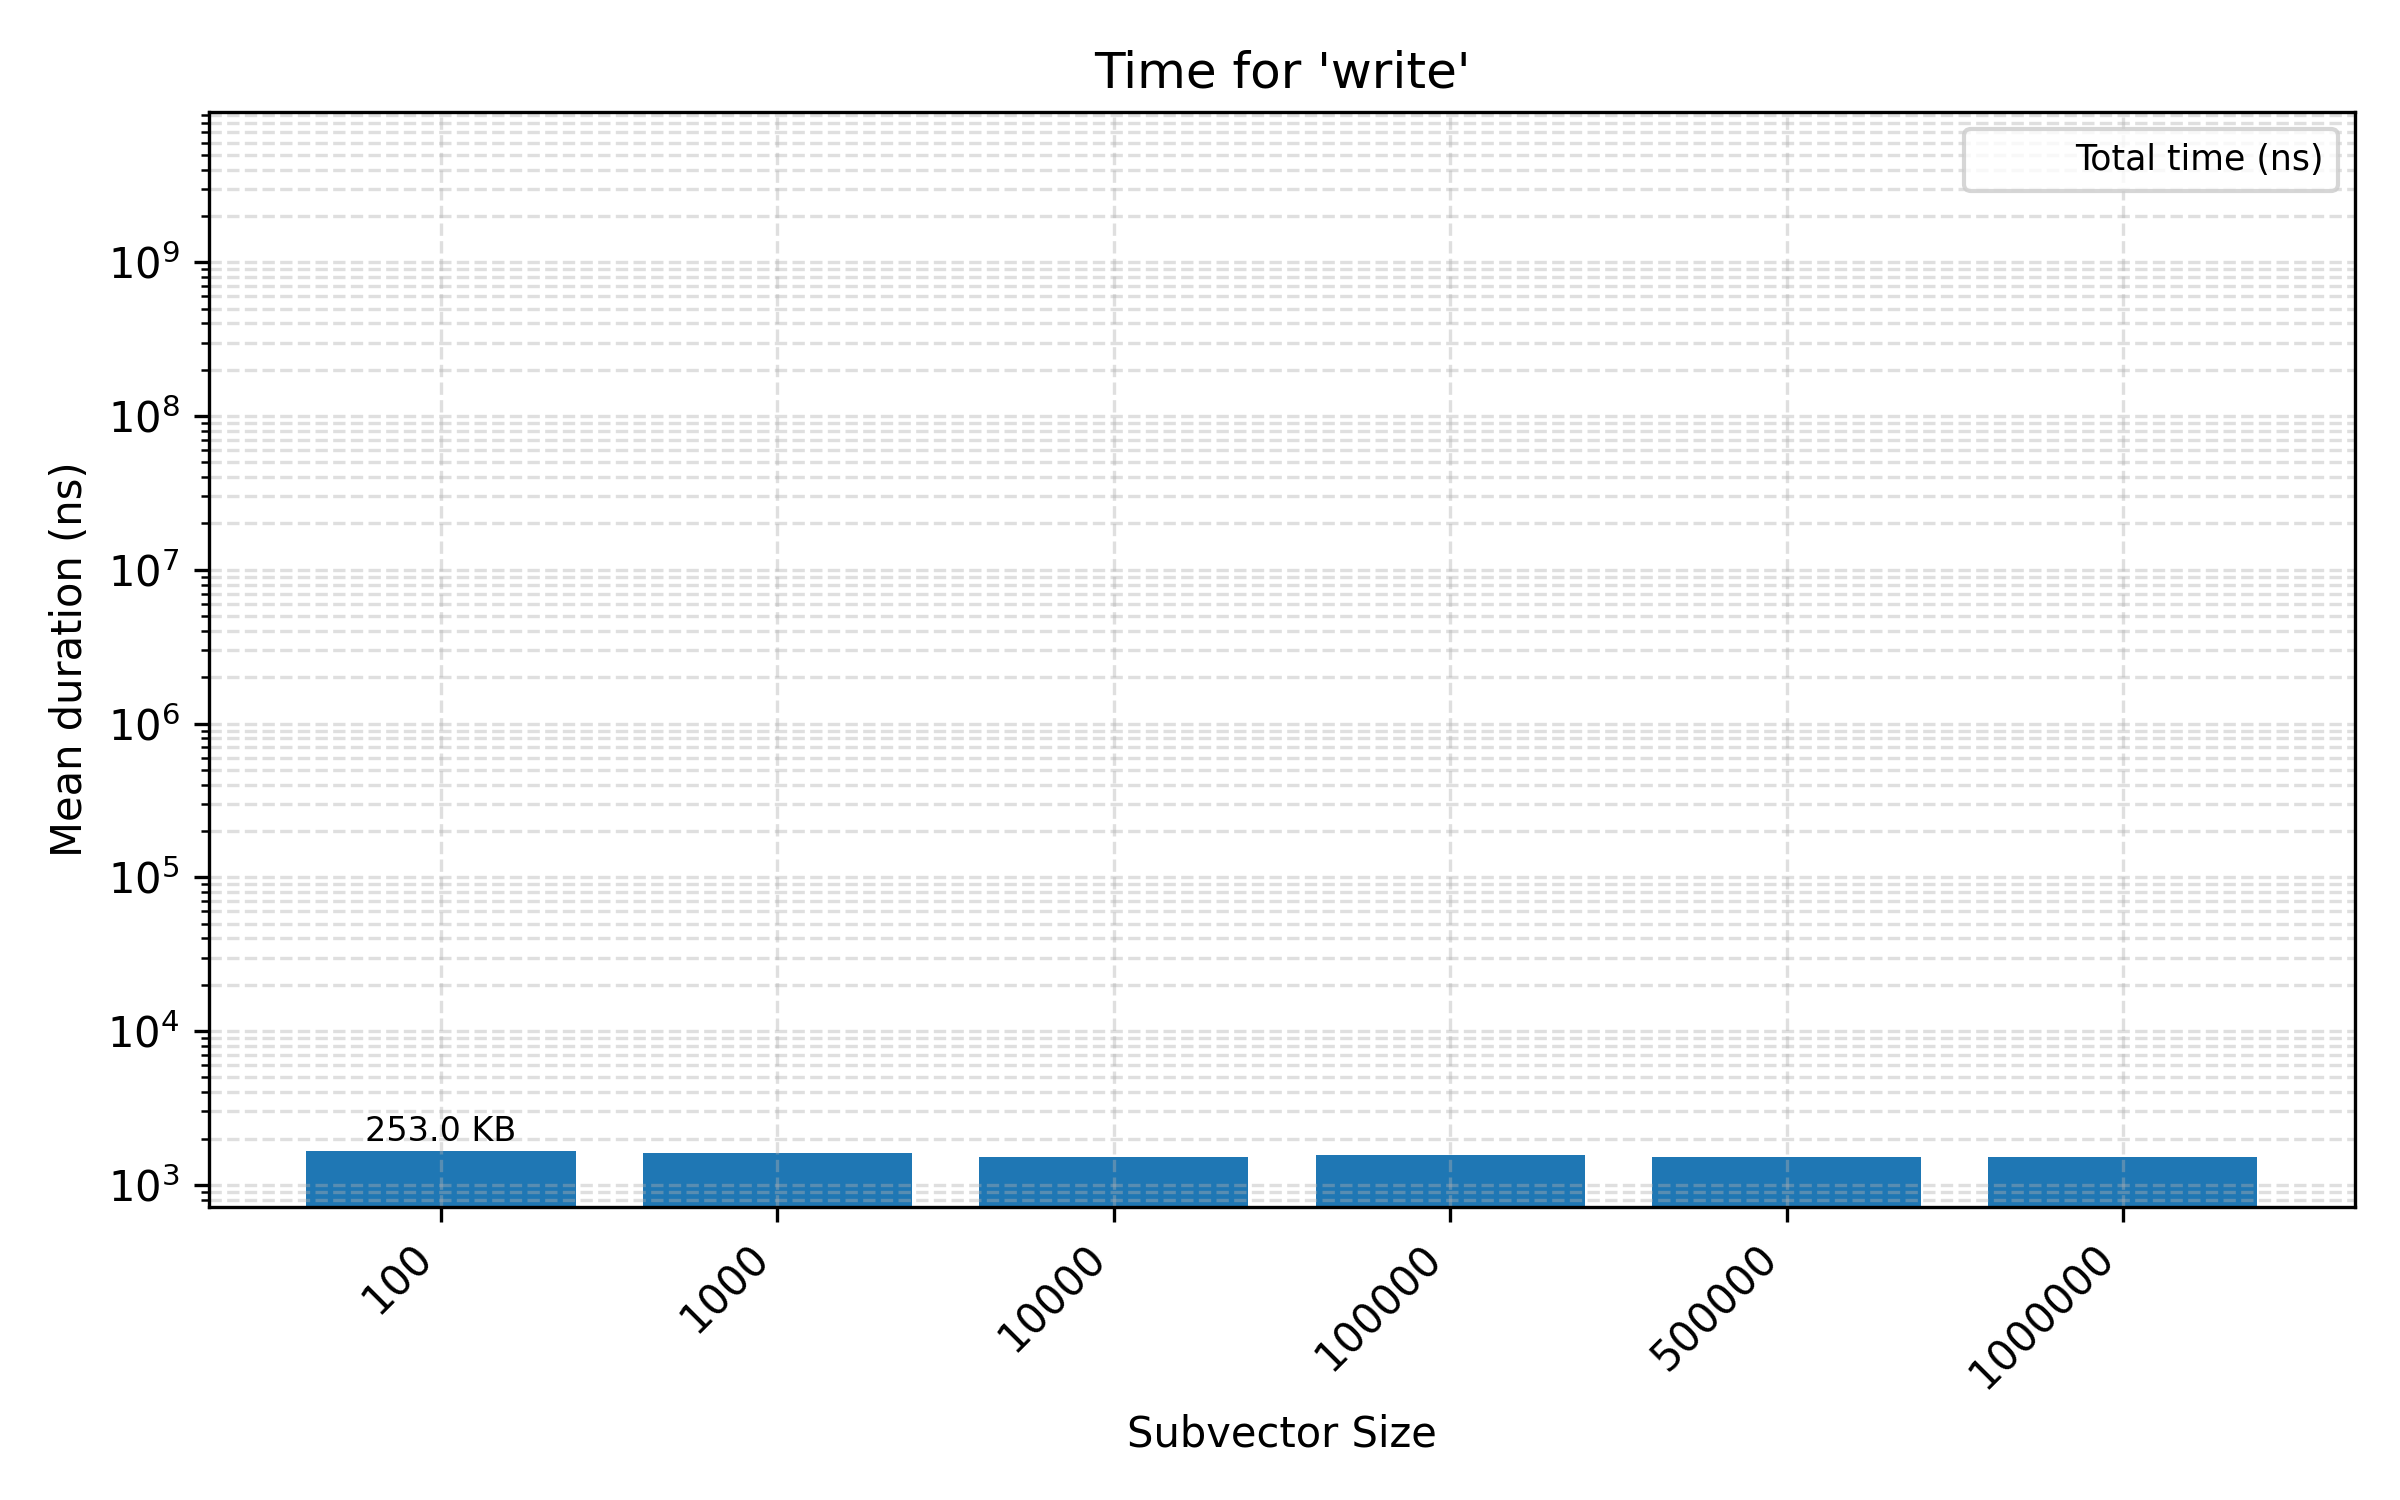
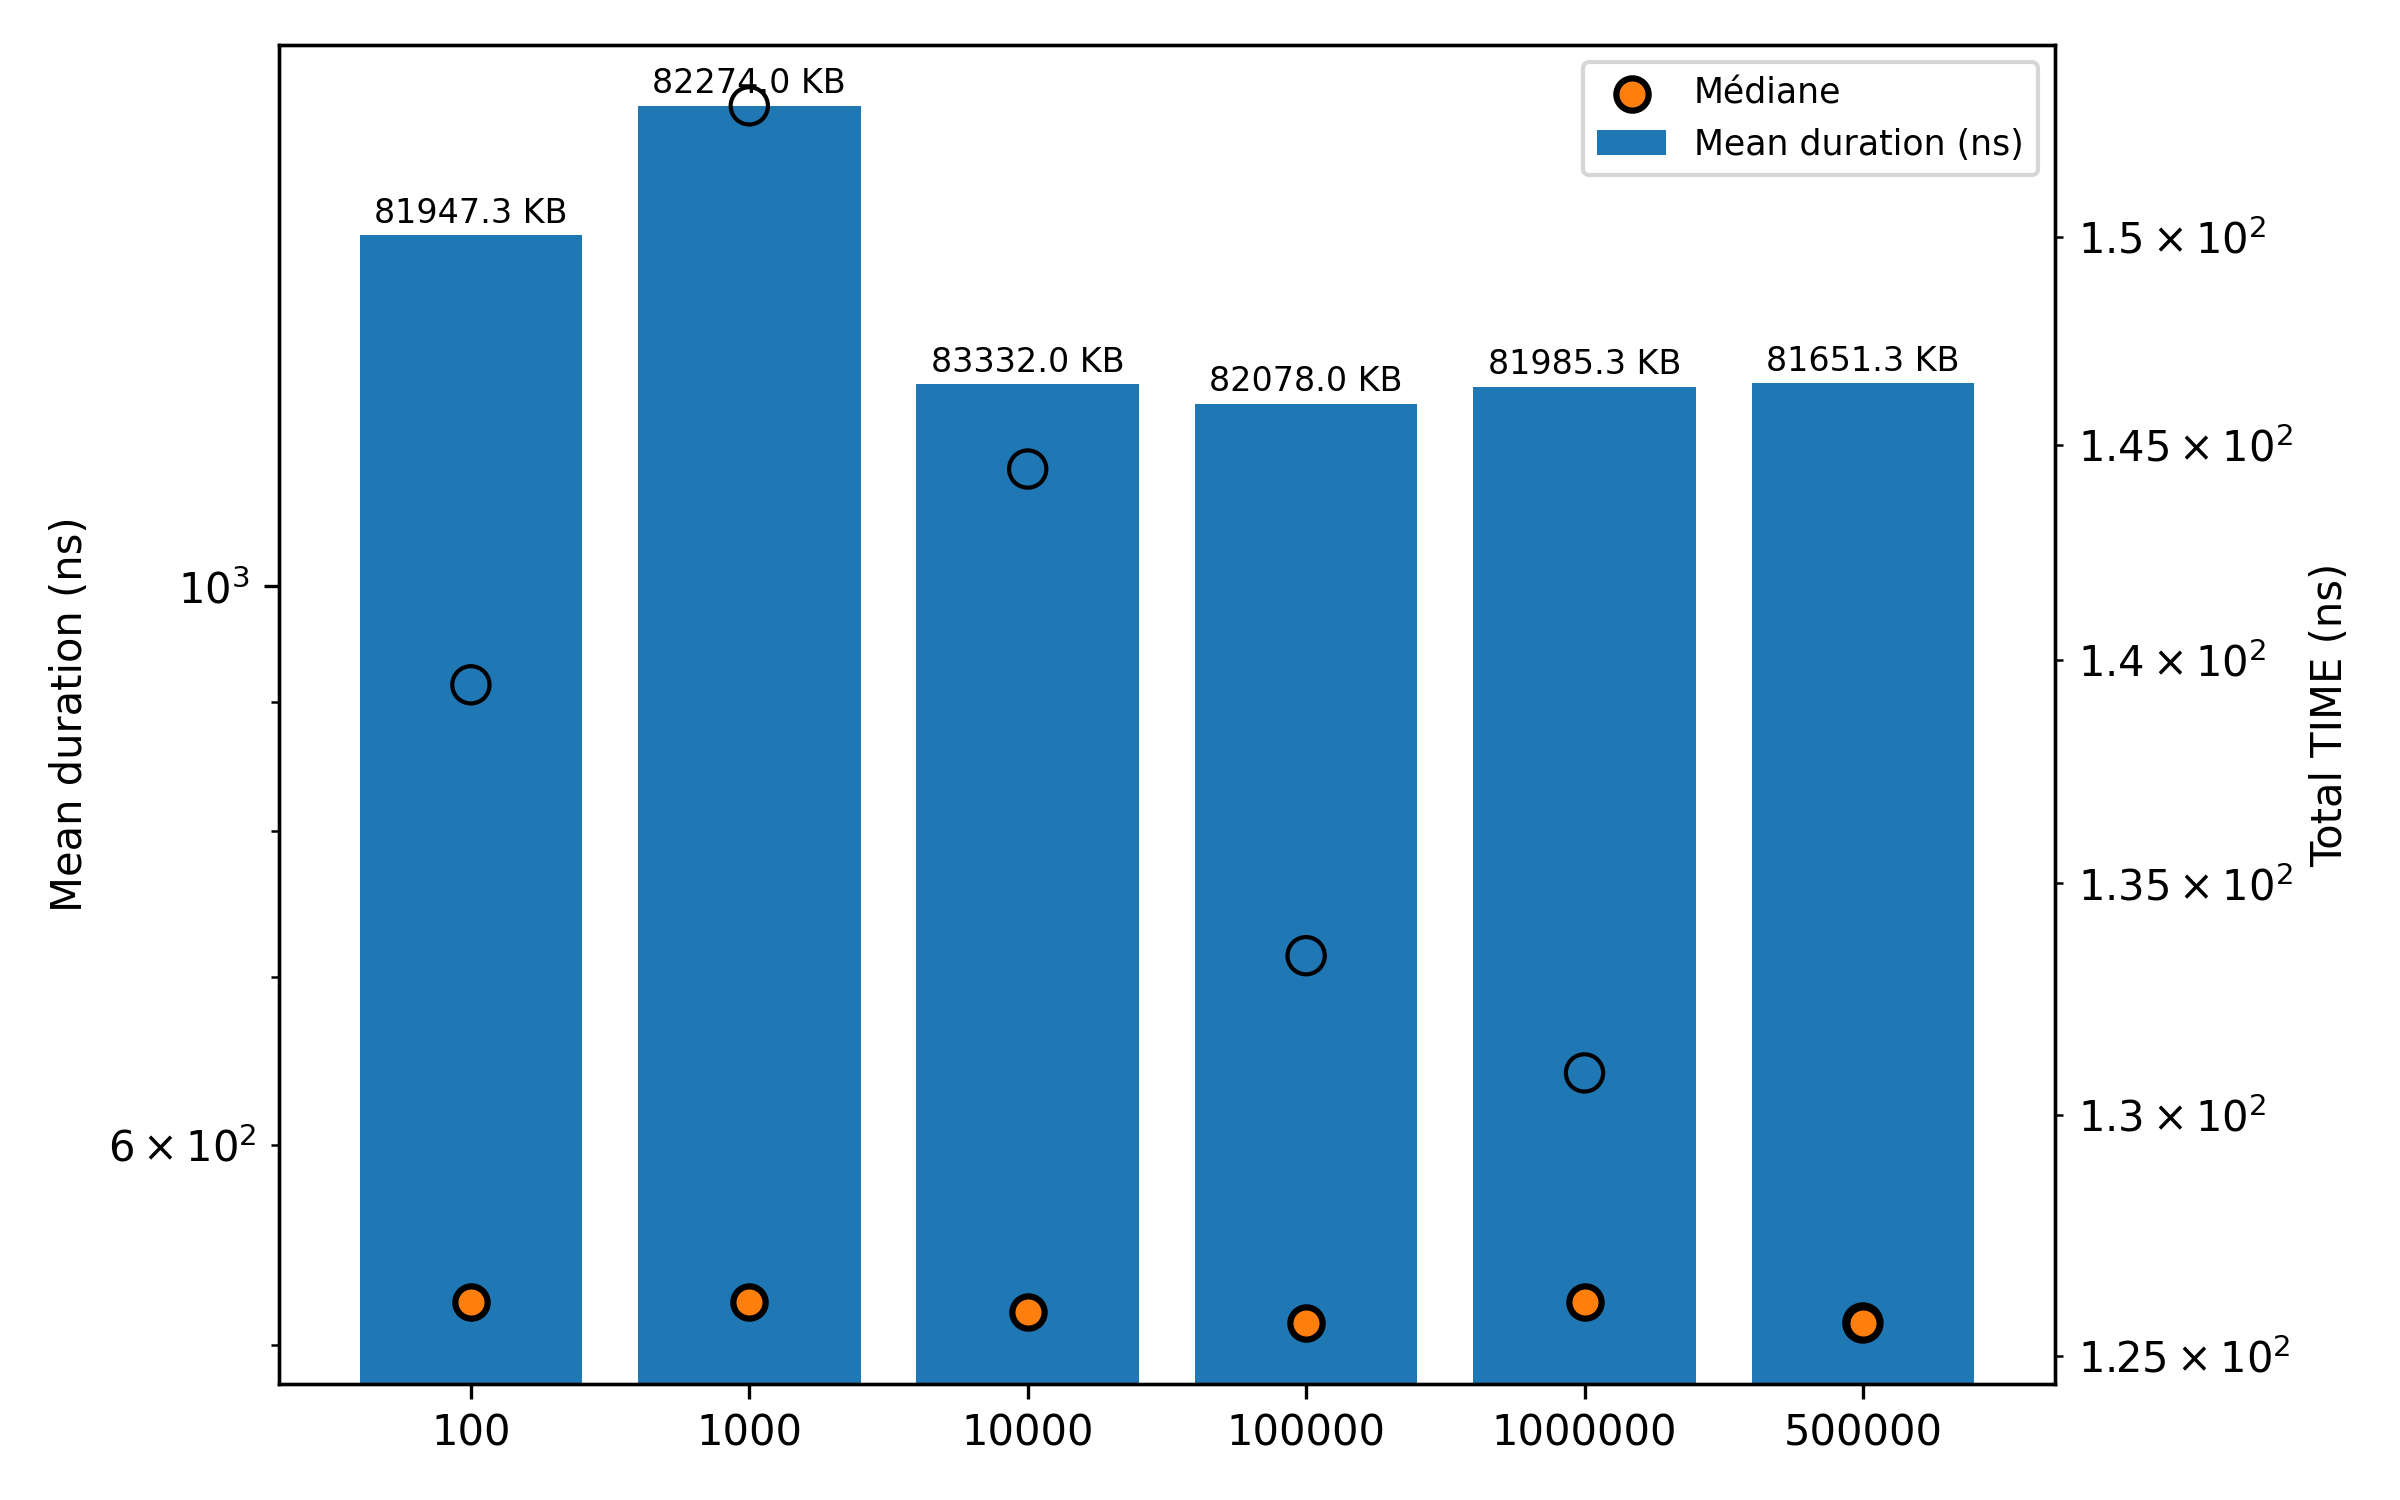
plots add

diff --git a/analysis/prog/vectors.py b/analysis/prog/vectors.py
@@ -20,7 +20,7 @@ order = [sf.split("-")[-1] for sf in subfolders]
 perf_info = {}
 for sf in subfolders:
     alg = sf.split("-")[-1]
-    perf_path = os.path.join(base_dir, sf, "perf.csv")
+    perf_path = os.path.join(base_dir, sf, "perfo.csv")
     if not os.path.isfile(perf_path):
         continue
     try:
@@ -76,6 +76,7 @@ for file_name in file_names:
         summary.append({"func": func, "alg": alg, "mean_duration_ns": times.mean(), 
             "mean_TIME_s": perf.get("TIME_s", pd.NA),
             "mean_MAX_PERF_kB": perf.get("MAX_PERF_kB", pd.NA),
+            "median_duration_ns": times.median(),
         })
 
 
@@ -99,6 +100,7 @@ for file_name in file_names:
 
     agg = summary_df.groupby(["func", "alg"], observed=True).agg(
         mean_duration_ns=("mean_duration_ns", "mean"),
+        median_duration_ns=("median_duration_ns", "median"),
         mean_TIME_s=("mean_TIME_s", "mean"),
         mean_MAX_PERF_kB=("mean_MAX_PERF_kB", "mean"),
     ).reset_index()
@@ -107,26 +109,63 @@ for file_name in file_names:
     out_dir_summary = os.path.join("../plot/", "nas_vectors_summary")
     os.makedirs(out_dir_summary, exist_ok=True)
     for func_name, grp in agg.groupby("func"):
-        grp = grp.sort_values("alg")
         fig, ax = plt.subplots(figsize=(8, 5))
-        bars = ax.bar(grp["alg"].astype(str), grp["mean_duration_ns"])
-        ax.set_yscale("log")
-        ax.set_xlabel("Subvector Size")
-        ax.set_ylabel("Mean duration (ns)")
-        ax.set_title(f"Time for '{func_name}'")
-        ax.grid(True, which="both", ls="--", alpha=0.4)
-        plt.xticks(rotation=45, ha="right")
 
-        time_ns = grp["mean_TIME_s"] * 1e9  # s en ns !!!!
-        ax.scatter(
+        bars = ax.bar(grp["alg"].astype(str), grp["mean_duration_ns"], label="Mean duration (ns)")
+        ax.set_yscale("log")
+        ax.set_ylabel("Mean duration (ns)")
+
+        ax2 = ax.twinx()
+        time_ns = grp["mean_TIME_s"]
+        ax2.set_yscale("log")
+        ax2.scatter(
             grp["alg"].astype(str),
             time_ns,
-            marker="x",
-            edgecolors="red",
+            marker="o",
+            edgecolors="black",
             facecolors="none",
-            s=40,
+            s=80,
             zorder=5,
-            label="Total time (ns)",
+            label="Total TIME (ns)",
+        )
+        ax2.set_ylabel("Total TIME (ns)")
+
+        lines, labels = ax.get_legend_handles_labels()
+        lines2, labels2 = ax2.get_legend_handles_labels()
+        ax.legend(lines + lines2, labels + labels2, fontsize="small")
+
+        # grp = grp.sort_values("alg")
+        # fig, ax = plt.subplots(figsize=(8, 5))
+        # bars = ax.bar(grp["alg"].astype(str), grp["mean_duration_ns"])
+        # ax.set_yscale("log")
+        # ax.set_xlabel("Subvector Size")
+        # ax.set_ylabel("Mean duration (ns)")
+        # ax.set_title(f"Time for '{func_name}'")
+        # ax.grid(True, which="both", ls="--", alpha=0.4)
+        # plt.xticks(rotation=45, ha="right")
+
+        # time_ns = grp["mean_TIME_s"] * 1e9  # s en ns !!!!
+        # ax.scatter(
+        #     grp["alg"].astype(str),
+        #     time_ns,
+        #     marker="x",
+        #     edgecolors="red",
+        #     facecolors="none",
+        #     s=40,
+        #     zorder=5,
+        #     label="Total time (ns)",
+        # )
+        x_positions = range(len(grp))
+        medians = grp["median_duration_ns"]
+        ax.scatter(
+            x_positions,
+            medians,
+            marker="o",
+            s=60,
+            label="Médiane",
+            zorder=5,
+            edgecolors="black",
+            linewidths=1.5,
         )
 
         for rect, max_perf in zip(bars, grp["mean_MAX_PERF_kB"]):
@@ -134,7 +173,7 @@ for file_name in file_names:
             if pd.notna(max_perf):
                 ax.text(
                     rect.get_x() + rect.get_width() / 2,
-                    height * 1.05,
+                    height * 1.005,
                     f"{max_perf:.1f} KB",
                     ha="center",
                     va="bottom",
